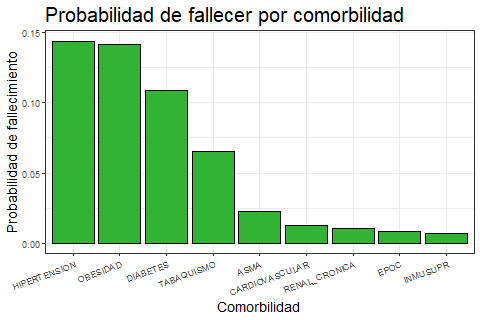
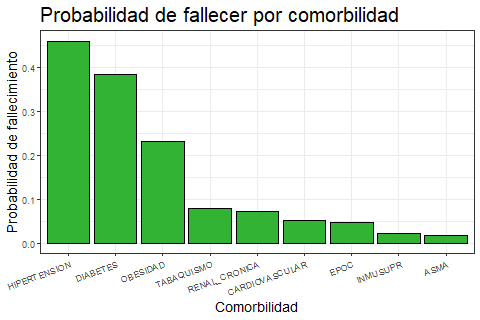
probabilidades por comorbilidad actualizadas

diff --git a/fallecimientos_esperados_comorbilidades.tex b/fallecimientos_esperados_comorbilidades.tex
@@ -1,20 +1,20 @@
 % latex table generated in R 4.0.2 by xtable 1.8-4 package
-% Sat Jan 30 18:07:22 2021
+% Sun Jan 31 11:54:16 2021
 \begin{table}[ht]
 \centering
 \begin{tabular}{rlrrr}
   \hline
- & comorbilidades & Esperanza & porct\_comorb & Numero\_esperado \\ 
+ & comorbilidad & prob & porct\_comorb & Numero\_esperado \\ 
   \hline
-1 & DIABETES & 0.11 & 25.50 & 2781.00 \\ 
-  2 & EPOC & 0.01 & 75.20 & 634.00 \\ 
-  3 & ASMA & 0.02 & 10.30 & 232.00 \\ 
-  4 & INMUSUPR & 0.01 & 8.80 & 65.00 \\ 
-  5 & HIPERTENSION & 0.14 & 10.00 & 1438.00 \\ 
-  6 & CARDIOVASCULAR & 0.01 & 7.00 & 90.00 \\ 
-  7 & OBESIDAD & 0.14 & 70.30 & 9920.00 \\ 
-  8 & RENAL\_CRONICA & 0.01 & 12.20 & 127.00 \\ 
-  9 & TABAQUISMO & 0.07 & 4.00 & 263.00 \\ 
+1 & DIABETES & 0.38 & 10.30 & 3955.00 \\ 
+  2 & EPOC & 0.05 & 10.00 & 470.00 \\ 
+  3 & ASMA & 0.02 & 7.00 & 133.00 \\ 
+  4 & INMUSUPR & 0.02 & 4.00 & 92.00 \\ 
+  5 & HIPERTENSION & 0.46 & 25.50 & 11756.00 \\ 
+  6 & CARDIOVASCULAR & 0.05 & 70.30 & 3726.00 \\ 
+  7 & OBESIDAD & 0.23 & 75.20 & 17522.00 \\ 
+  8 & RENAL\_CRONICA & 0.07 & 12.20 & 878.00 \\ 
+  9 & TABAQUISMO & 0.08 & 8.80 & 695.00 \\ 
    \hline
 \end{tabular}
 \end{table}

diff --git a/positividad_por_alcaldias_cdmx.tex b/positividad_por_alcaldias_cdmx.tex
@@ -1,5 +1,5 @@
 % latex table generated in R 4.0.2 by xtable 1.8-4 package
-% Mon Jan 18 13:46:47 2021
+% Sun Jan 31 00:25:12 2021
 \begin{table}[ht]
 \centering
 \begin{tabular}{rlrrr}
